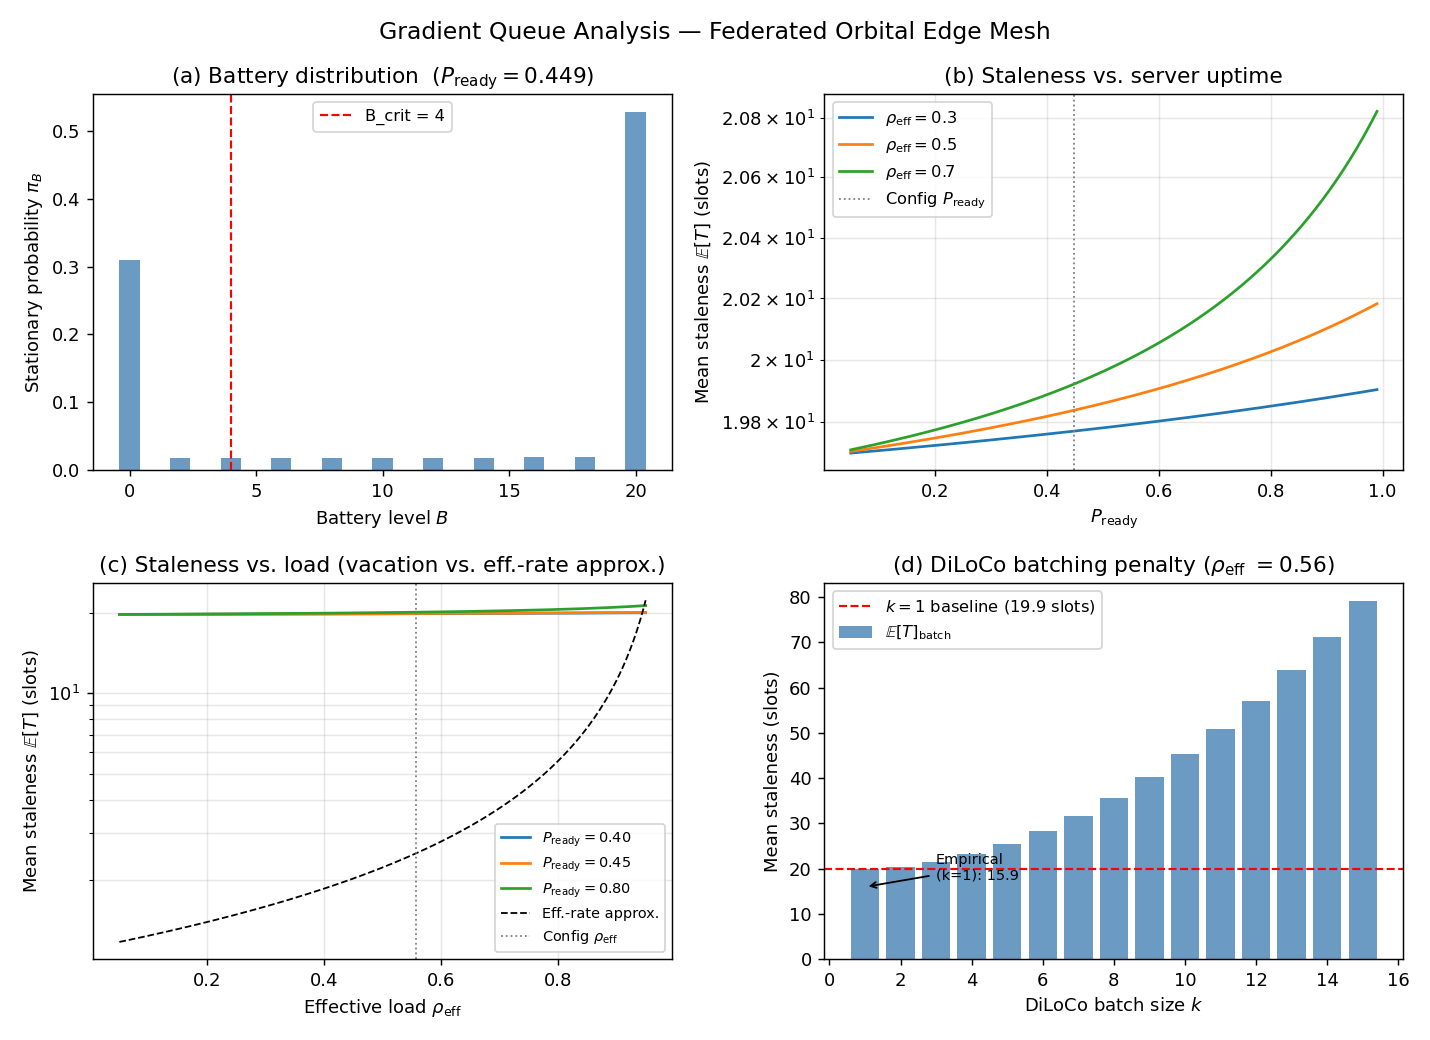
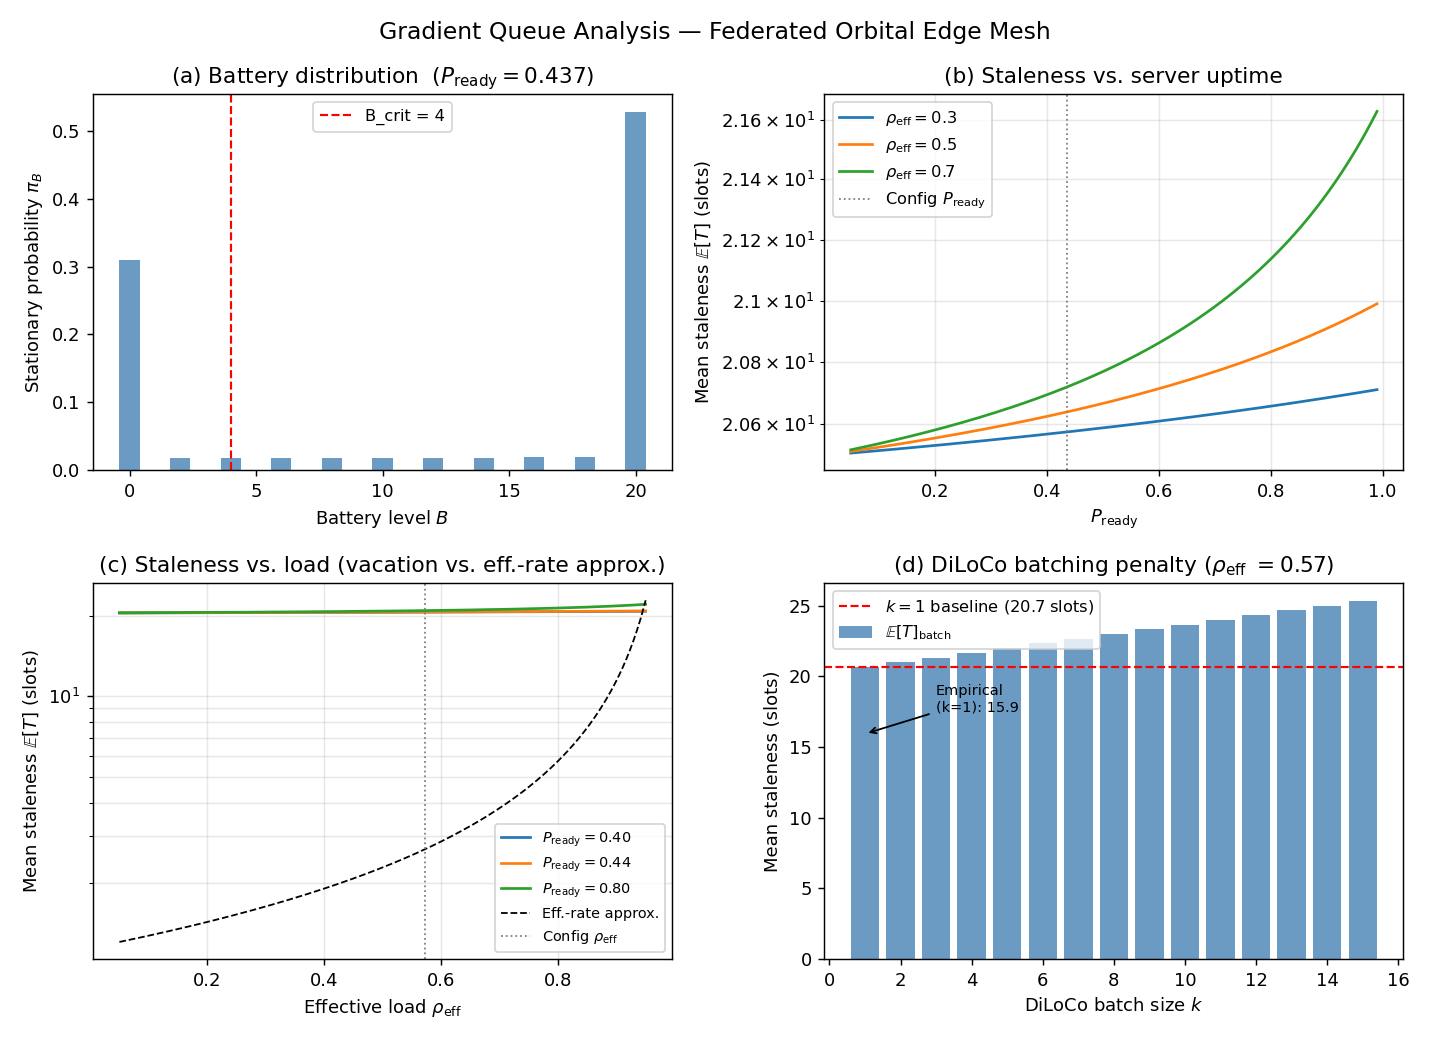
Fix B_crit off-by-one, batch staleness formula, update README with full repro instructions

diff --git a/src/orbital_fl/queueing.py b/src/orbital_fl/queueing.py
@@ -76,18 +76,26 @@ def vacation_penalty(q: QueueParams) -> float:
 def mean_staleness_batch(q: QueueParams, k: int) -> float:
     """
     Mean staleness under DiLoCo-style batching: k local SGD steps per sync.
-    Gradients arrive in batches of size k (M^[X]/M/1 queue).
+    Gradients arrive in batches of size k (M^[X]/M/1 queue with vacation).
 
-    E[T]_batch = E[T] + lam * k * (k - 1) / (2 * mu * (1 - rho_eff))
+    For M^[X]/M/1 (batch Poisson, rate Lambda=lam/k, batch size k, service
+    rate mu), E[L] = rho/(1-rho) + Lambda*k*(k-1)/(2*mu*(1-rho)) where
+    rho = lam/mu. Applying Little's law E[T] = E[L]/lam yields:
 
-    The correction term is the Pollaczek-Khinchine bulk-arrival penalty.
+        E[T]_{batch} = (k+1) / (2*(mu-lam))  + vacation penalty
+
+    so the correction over k=1 is:
+
+        delta = (k-1) / (2*(mu - lam))
+
+    Note: uses actual load rho = lam/mu, not rho_eff, because the batch
+    correction is a property of the server capacity, not the server uptime.
     """
     if k <= 1:
         return mean_staleness(q)
-    rho = effective_load(q)
-    if rho >= 1.0:
+    if not is_stable(q):
         return float("inf")
-    pk_correction = q.lam * k * (k - 1) / (2.0 * q.mu * (1.0 - rho))
+    pk_correction = (k - 1) / (2.0 * (q.mu - q.lam))
     return mean_staleness(q) + pk_correction
 
 

diff --git a/src/orbital_fl/markov.py b/src/orbital_fl/markov.py
@@ -81,14 +81,14 @@ def stationary_distribution(P: np.ndarray) -> np.ndarray:
 
 def compute_pready(pi: np.ndarray, cfg: EnvConfig) -> float:
     """
-    P_ready = P(B >= B_crit, C = 1)
+    P_ready = P(B > B_crit, C = 1)
 
     The marginal probability that the satellite has sufficient charge
-    and an active ISL to push gradient updates, as defined in the
-    stationary analysis section of the paper.
+    and an active ISL to push gradient updates. Uses strict inequality
+    B > B_crit to match the `had_energy = B > B_crit` gate in env.py.
     """
     p = 0.0
-    for b in range(cfg.B_crit, cfg.B_max + 1):
+    for b in range(cfg.B_crit + 1, cfg.B_max + 1):  # strictly greater than B_crit
         for i in range(2):
             p += pi[_idx(b, i, 1)]  # c = 1
     return float(p)
@@ -107,7 +107,7 @@ def compute_beta(pi: np.ndarray, P: np.ndarray, cfg: EnvConfig) -> float:
     B_max = cfg.B_max
     ready = {
         _idx(b, i, 1)
-        for b in range(cfg.B_crit, B_max + 1)
+        for b in range(cfg.B_crit + 1, B_max + 1)  # strictly greater than B_crit
         for i in range(2)
     }
     not_ready = [s for s in range(P.shape[0]) if s not in ready]

diff --git a/README.md b/README.md
@@ -1,75 +1,112 @@
 # orbital-fl-sim
 
-Simulator for energy-aware queueing and bandwidth allocation in on-orbit federated learning.
+Simulator and analytical model for energy-aware queueing and bandwidth allocation in on-orbit federated learning.
 
-Companion code for the EE 384S Spring 2026 project: *Energy-Aware Queueing and
-Bandwidth Allocation for On-Orbit Federated Learning* (Anbhuarasan, Khan, Gupta).
+Companion code for the EE 384S Spring 2026 project: *Energy-Aware Queueing and Bandwidth Allocation for On-Orbit Federated Learning* (Anbhuarasan, Khan, Gupta, Jonathan).
 
-## What's here (v0)
-
-A single-satellite Markov environment that exercises the full state space from
-the proposal: battery, illumination, ISL contact. Three baseline policies and a
-sanity-check script that produces the first comparison plot.
+## Repository layout
 
 ```
 orbital-fl-sim/
 ├── src/orbital_fl/
-│   ├── env.py          # SatelliteEnv + EnvConfig
-│   ├── policies.py     # power_oblivious, contact_gated, power_weighted
+│   ├── env.py              # SatelliteEnv + EnvConfig — discrete-time (B,I,C,Q) MDP
+│   ├── policies.py         # power_oblivious, contact_gated, power_weighted baselines
+│   ├── markov.py           # stationary analysis: build P, solve pi*P=pi, P_ready, beta
+│   ├── queueing.py         # analytical M/M/1 vacation model: E[T], E[L], batch penalty
 │   └── __init__.py
 ├── scripts/
-│   └── sanity_check.py # rolls out each policy, saves figures/sanity_check.png
+│   ├── sanity_check.py     # baseline policy rollout, figures/sanity_check.png
+│   └── queueing_analysis.py# Markov + queueing sweep, figures/queueing_analysis.png
 ├── figures/
+│   ├── sanity_check.png
+│   └── queueing_analysis.png
 └── README.md
 ```
 
 ## Quickstart
 
 ```bash
+# 1. Create a virtual environment (required — do not install globally)
+python3 -m venv .venv
+source .venv/bin/activate   # Windows: .venv\Scripts\activate
+
+# 2. Install dependencies
 pip install numpy matplotlib
+
+# 3. Run baseline policy comparison
 python scripts/sanity_check.py
+
+# 4. Run Markov stationary analysis + queueing model
+python scripts/queueing_analysis.py
 ```
 
-Output: console summary of avg reward / battery-dead fraction per policy, plus
-`figures/sanity_check.png`.
+Both scripts save figures to `figures/` and print a console summary.
 
 ## Model
 
-State: $S_t = (B_t, I_t, C_t)$.
+### Simulator (`env.py`)
 
-Action: $a_t = (a_{\text{local}}, a_{\text{tx}}) \in [0,1]^2$.
+State: $S_t = (B_t, I_t, C_t, Q_t)$
+
+- $B_t \in \{0,\dots,B_{\max}\}$: discrete battery level
+- $I_t \in \{0,1\}$: illumination (0 = eclipse, 1 = sunlit)
+- $C_t \in \{0,1\}$: ISL contact (0 = disconnected, 1 = connected)
+- $Q_t \in \{0,\dots,Q_{\max}\}$: gradient queue length
+
+Action: $a_t = (a_{\text{local}}, a_{\text{tx}}) \in [0,1]^2$
 
 Energy (Harvest-Use-Store):
-$$\Delta E = \eta \cdot I - P_{\text{tx}} \cdot a_{\text{tx}} \cdot C - P_{\text{gpu}} \cdot a_{\text{local}} - P_{\text{base}}$$
+$$\Delta E = \eta I - P_{\text{tx}} a_{\text{tx}} C - P_{\text{gpu}} a_{\text{local}} - P_{\text{base}}$$
 $$B_{t+1} = \text{clip}(B_t + \Delta E, 0, B_{\max})$$
 
-Illumination and contact are independent two-state Markov chains, parameterized
-in `EnvConfig`. Units are abstract; calibrate once the stationary analysis tells
-us what regime is interesting.
+Gradient arrivals are Poisson($\lambda_g \cdot a_{\text{local}}$), gated by $B_t > B_{\text{crit}}$.  
+Service: up to $\lfloor a_{\text{tx}} \cdot \mu \rfloor$ gradients drained per slot when $C_t = 1$ and $B_t > B_{\text{crit}}$.
 
-The `contact_gated` baseline recovers the original deterministic energy equation
-in the proposal exactly (`a_local = 1 - C`, `a_tx = C`), which is useful as a
-sanity check against Nimalan's stationary analysis.
+Each drained gradient emits a `DrainEvent(arrival_time, drain_time, sender_id, size)` — the schema consumed by the queueing analysis.
+
+### Markov chain analysis (`markov.py`)
+
+Builds the $(B_{\max}+1) \times 2 \times 2$ transition matrix under the **contact-gated policy** ($a_{\text{local}} = 1-C$, $a_{\text{tx}} = C$), which recovers the deterministic energy equation from the paper. Solves $\pi P = \pi$ by linear system and extracts:
+
+- **$P_{\text{ready}}$** $= P(B > B_{\text{crit}},\, C=1)$: steady-state server uptime
+- **$\beta$**: effective per-slot link-recovery probability (computed from the stationary flow into the ready set)
+
+> **Calibration note.** The default `EnvConfig` has $\eta = 2.0$, which gives $\mathbb{E}[\Delta E] < 0$ in all states and causes the battery to drain to zero (degenerate case, $P_{\text{ready}} \to 0$). The analysis scripts use a calibrated config with $\eta = 4.0$, which yields a proper stationary battery distribution. Set $\eta$ so that $\eta \cdot P(\text{sunlit}) > P_{\text{tx}} \cdot P(C{=}1) + P_{\text{gpu}} \cdot P(C{=}0) + P_{\text{base}}$.
+
+### Queueing model (`queueing.py`)
+
+Each satellite's gradient buffer is an M/M/1 queue with a two-state on-off server. Server uptime is $P_{\text{ready}}$; off-periods are geometric with recovery probability $\beta$.
+
+**Stability:** $\rho_{\text{eff}} = \lambda / (\mu \cdot P_{\text{ready}}) < 1$
+
+**Mean staleness** (M/G/1 vacation decomposition, Doshi 1986):
+$$\mathbb{E}[T] = \underbrace{\frac{1}{\mu - \lambda}}_{\text{M/M/1 sojourn}} + \underbrace{\frac{2-\beta}{2\beta}}_{\text{residual off-period}}$$
+
+This is a conservative upper bound on the true staleness (overestimates because the multiple-vacation model is more pessimistic than the on-off server model).
+
+**DiLoCo batch penalty** (M$^{[X]}$/M/1 correction):
+$$\mathbb{E}[T]_{\text{batch}} = \mathbb{E}[T] + \frac{k-1}{2(\mu - \lambda)}$$
+
+**Numerical results** (calibrated config, $\eta=4.0$, $\lambda=0.5$, $\mu=2$):
+
+| Quantity | Value |
+|---|---|
+| $P_{\text{ready}}$ | 0.437 |
+| $\beta$ | 0.049 |
+| $\rho_{\text{eff}}$ | 0.572 |
+| $\mathbb{E}[T]$ analytical | 20.7 slots |
+| $\mathbb{E}[T]$ empirical (8000-step rollout) | 15.9 slots |
 
 ## Next steps
 
-In rough priority order:
-
-1. **Gradient queue.** Replace the hand-tuned reward proxy with a real buffer:
-   gradients arrive at some rate, drain at `a_tx * C * mu`, reward = drained.
-   This is also the interface point with Vidur's queueing-network model.
-2. **Proper constraint signal.** Separate cost stream
-   $c_t = \mathbb{1}[B_t < B_{\text{crit}}]$ so the CMDP solver treats energy
-   neutrality as a hard constraint, not reward shaping.
-3. **Lagrangian-relaxation solver.** Sweep $\lambda$, value-iterate on the
-   discretized state space, plot the Pareto frontier of throughput vs. energy
-   deficit. This is the headline figure.
-4. **Robustness sweeps.** Gradient compression ratio, constellation size (once
-   multi-satellite is in), ECC bit-flip noise.
-5. **JAX port.** Only if rollout speed becomes the bottleneck.
+1. **Lagrangian-relaxation CMDP solver.** Value-iterate on the discretized $(B,I,C,Q)$ state space, sweep the energy-penalty Lagrange multiplier, and plot the throughput vs. energy-deficit Pareto frontier.
+2. **Robustness sweeps.** Gradient compression ratio, ECC bit-flip noise, constellation size.
+3. **Multi-satellite extension.** Add $N$ independent `SatelliteEnv` instances, verify product-form factorization empirically, and test with correlated eclipse schedules.
+4. **JAX port.** Only if rollout speed becomes the bottleneck.
 
 ## Team
 
 - Nimalan Anbhuarasan — Markov chain stationary analysis
-- Sarosh Khan — CMDP, simulator, experiments (this repo)
-- Vidur Gupta — Queueing-network model of ISL aggregation
+- Sarosh Khan — CMDP, simulator (`env.py`, `policies.py`, `sanity_check.py`)
+- Vidur Gupta — Queueing model (`markov.py`, `queueing.py`, `queueing_analysis.py`)
+- Jonathan — Report structure and slides
